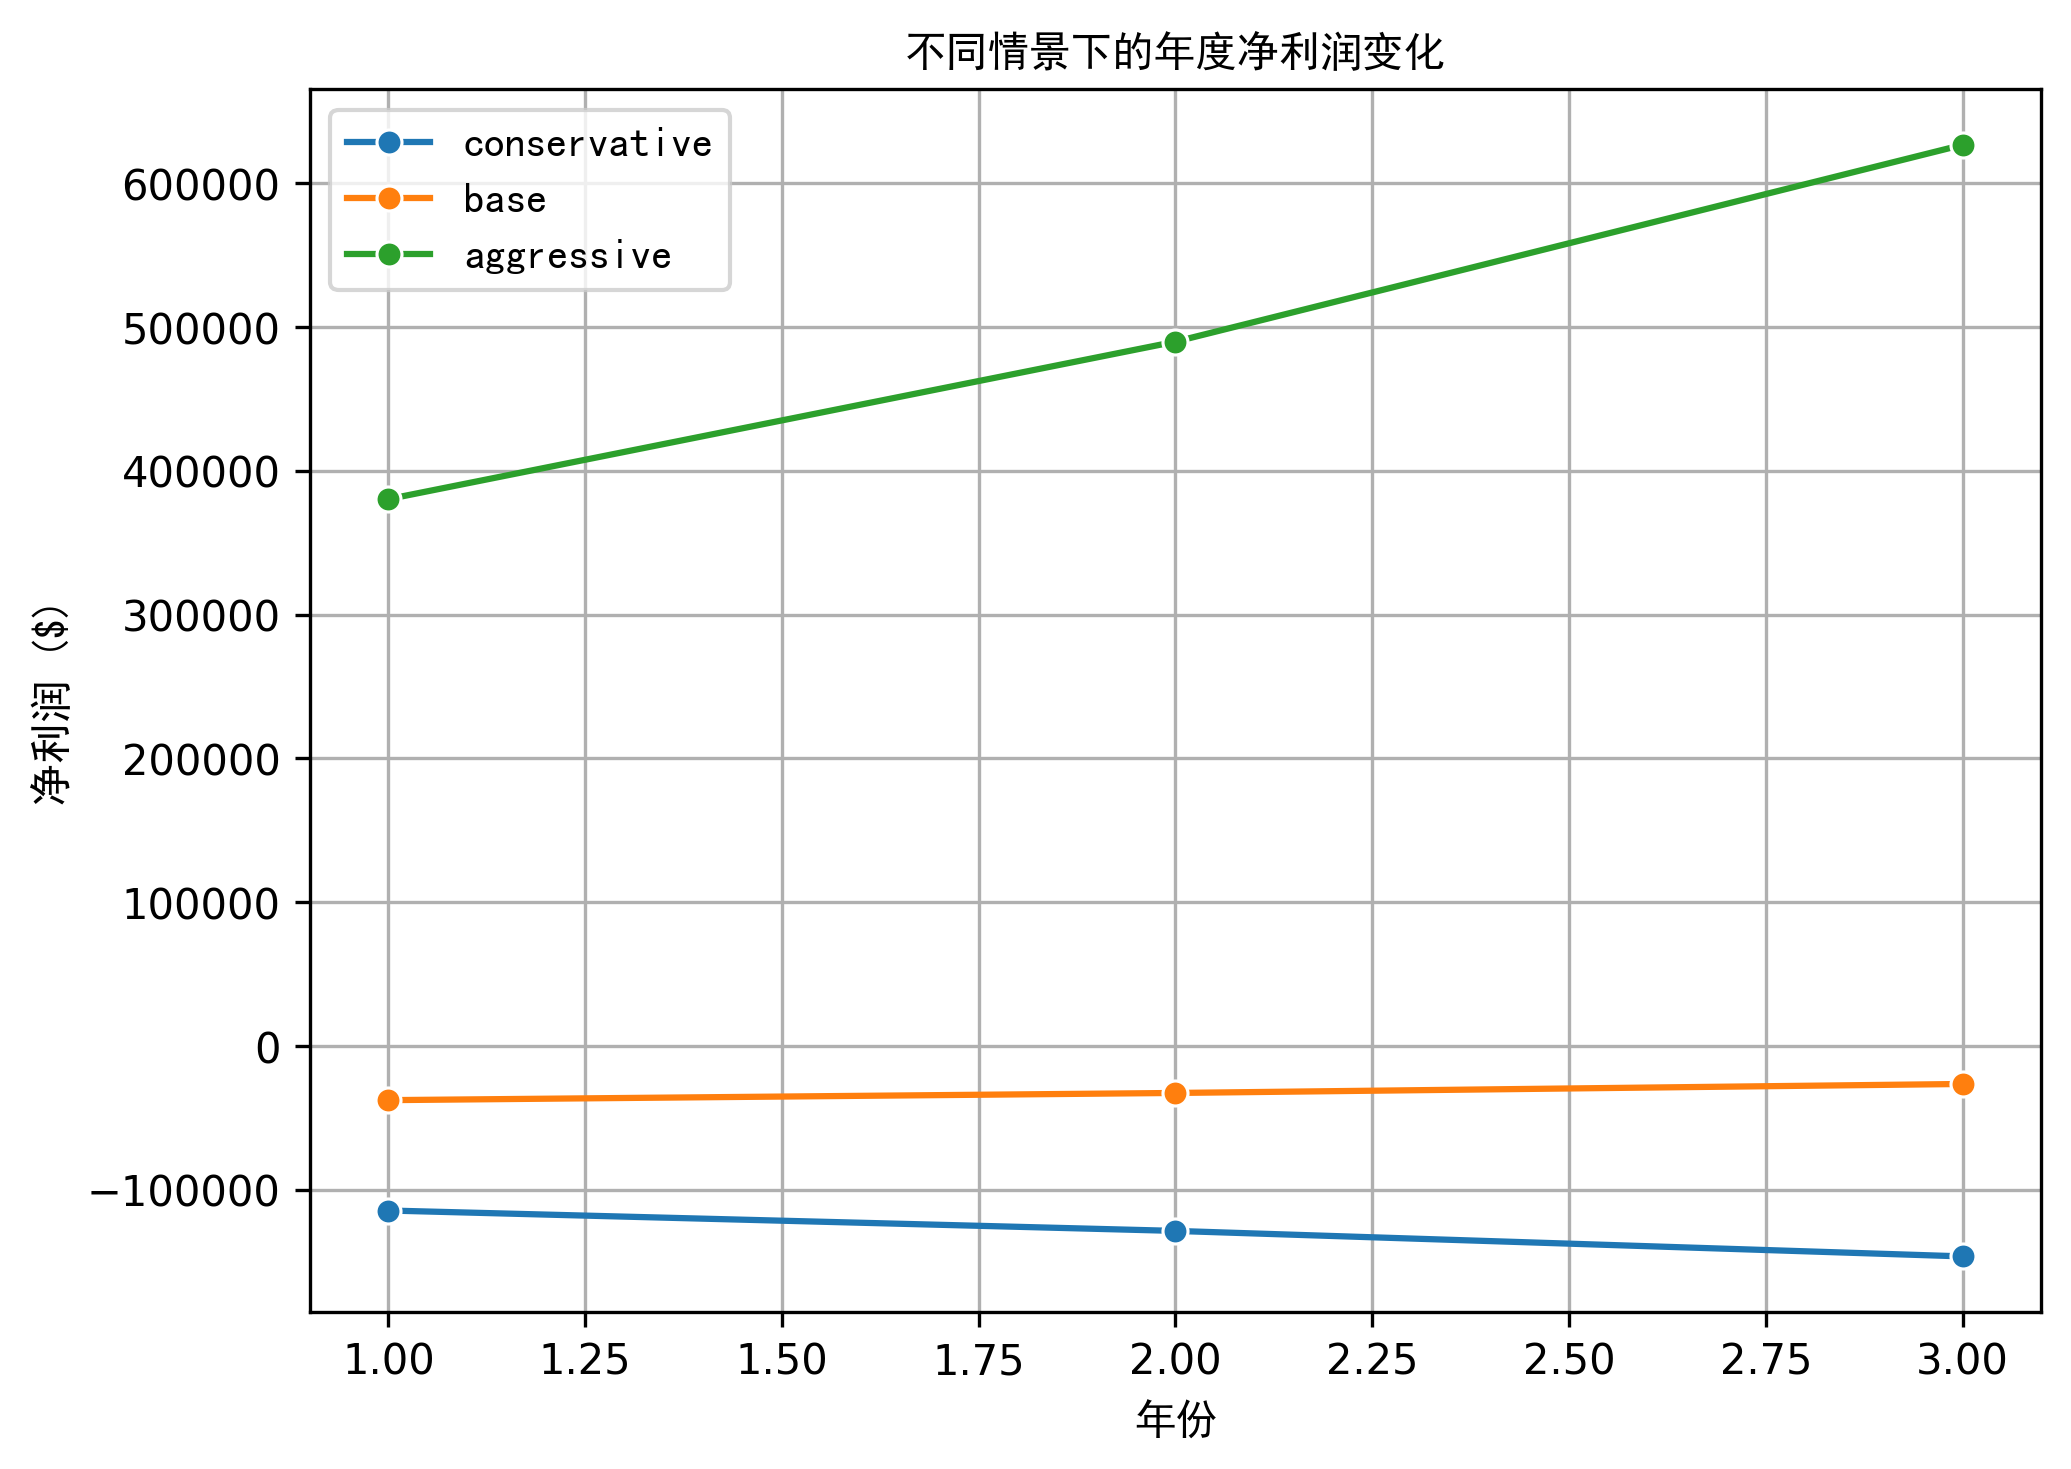
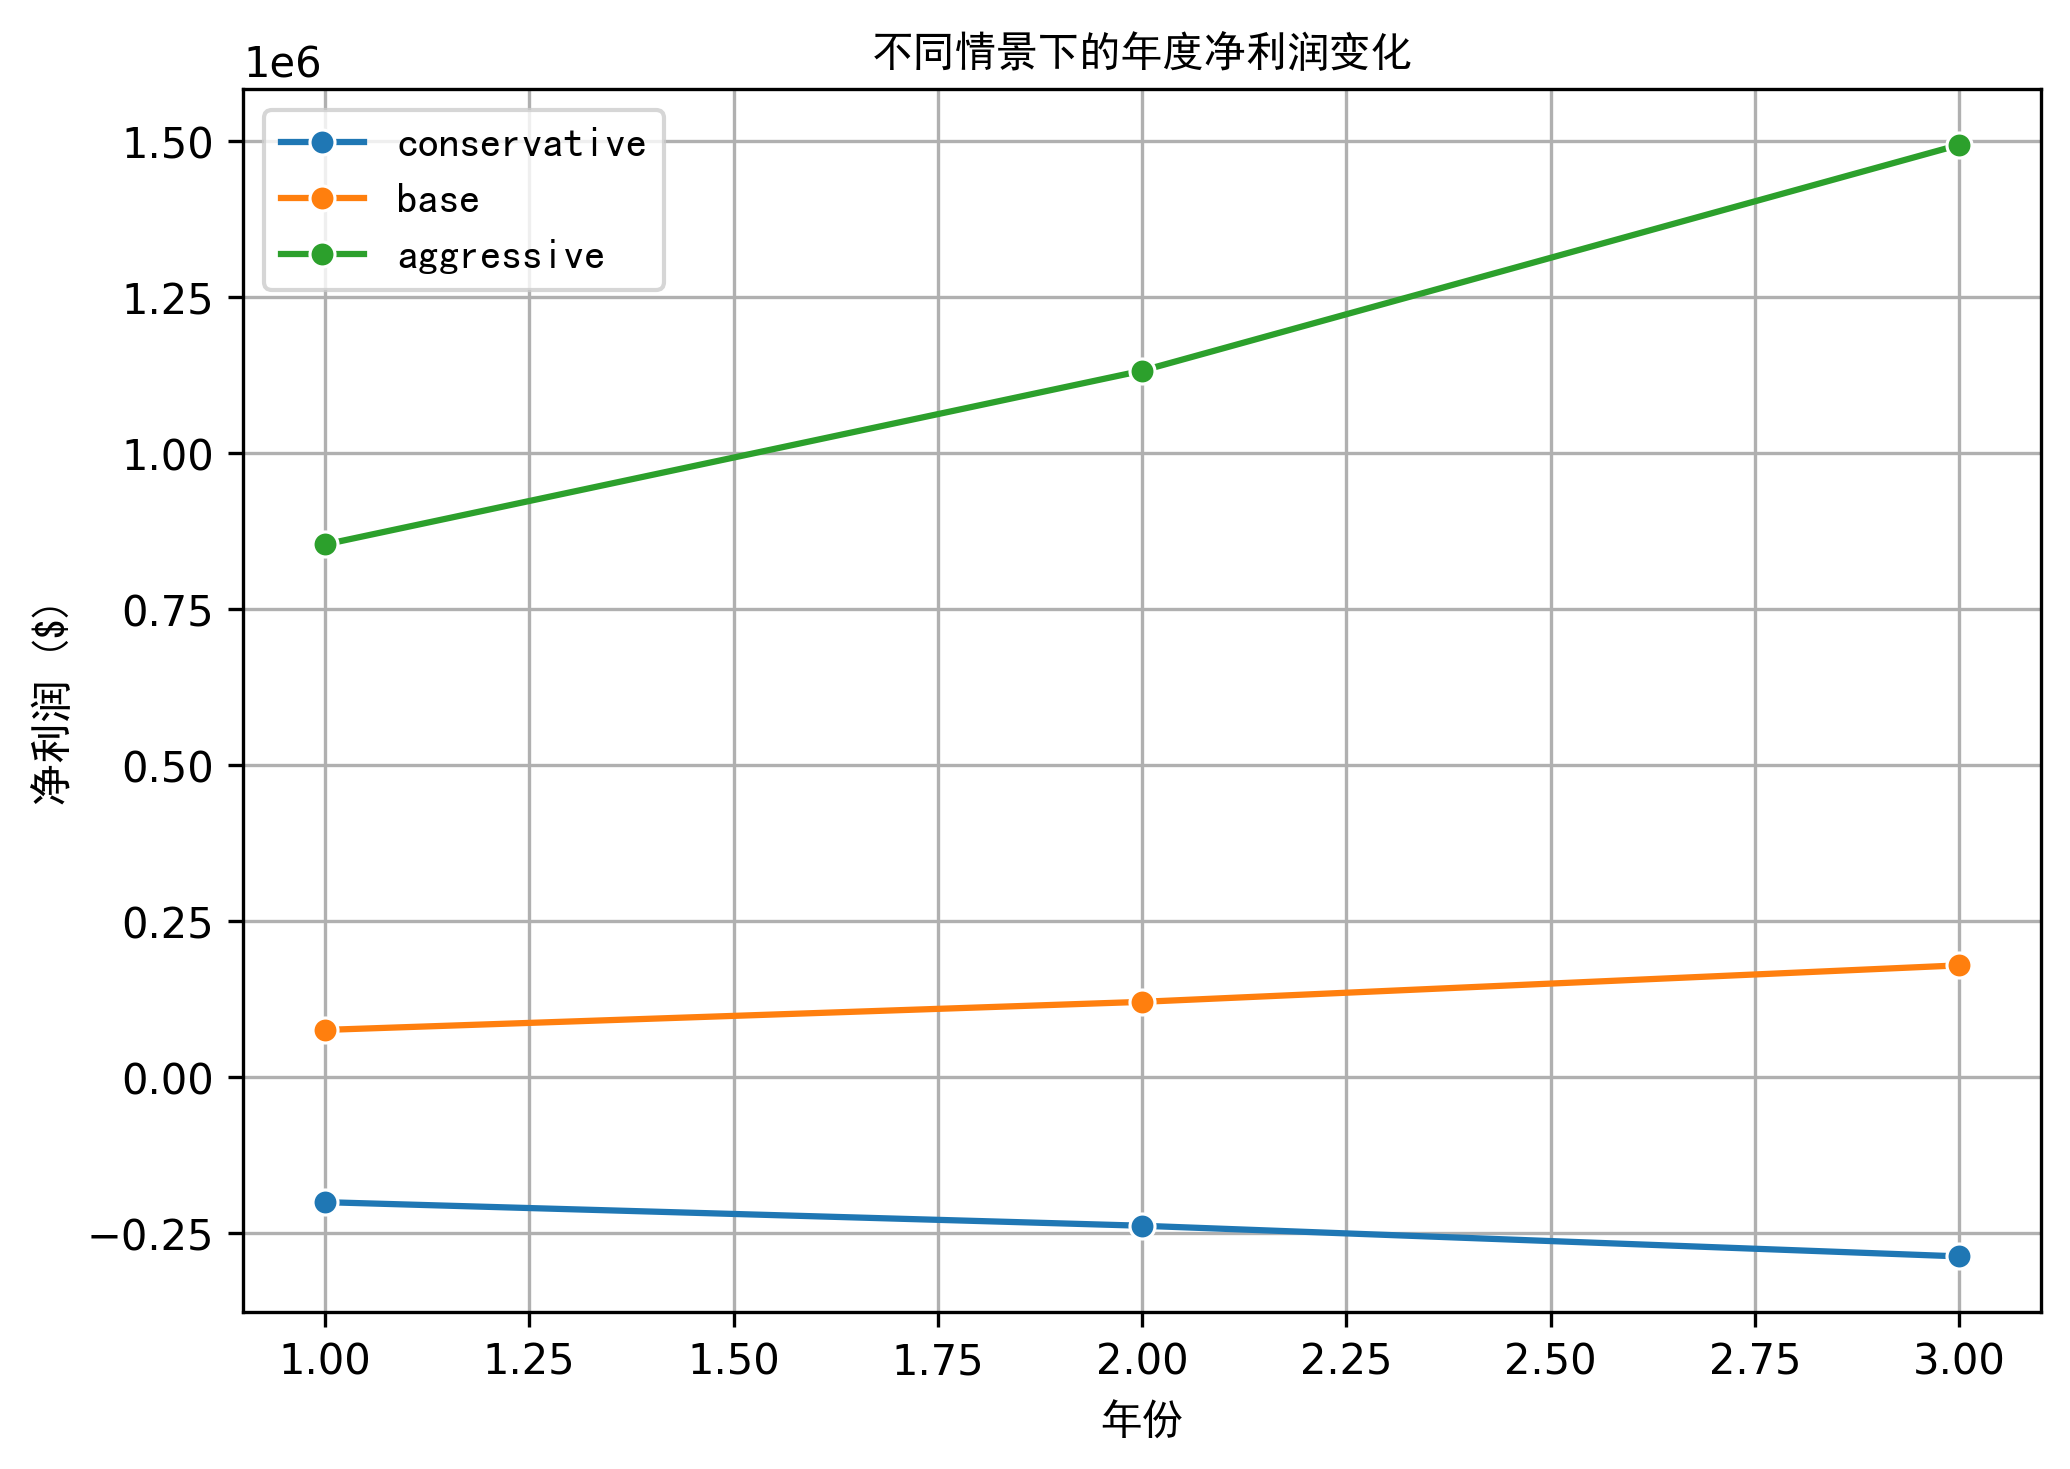
这些是相关数据仿真的图片和函数

diff --git a/源心智疗_财务建模代码.py b/源心智疗_财务建模代码.py
@@ -15,37 +15,50 @@ import seaborn as sns
 
 # ==== 参数定义 ====
 params = {
-    "pilot_universities": 5,           # 参与试点的高校数量
-    "students_per_uni": 20000,         # 每所高校的学生数
-    "scenarios": {                     # 不同市场情景假设
-        "conservative": {              # 保守场景
-            "adoption_rate": 0.05,     # 采用率（5%的学生使用）
-            "price_per_user_year": 1.0,# 每用户每年收入（美元）
-            "hosting_cost_per_user_month": 1.0,  # 每用户每月服务器成本
-            "other_opex_pct": 0.35     # 其他运营成本占收入比例
+    "pilot_universities": 5,  # 不变：试点数量
+    "students_per_uni": 20000,  # 不变：每校人数（典型本科规模）
+
+    "scenarios": {
+        "conservative": {  # 保守场景
+            "adoption_rate": 0.03,  # 下调至3%（初期接受度低）
+            "price_per_user_year": 30.0,  # 市场主流低价区间
+            "hosting_cost_per_user_month": 5.0,  # 见下方计算说明
+            "other_opex_pct": 0.40  # 成本占比高（人工运营多）
         },
-        "base": {                      # 基础场景
+        "base": {  # 基础场景
             "adoption_rate": 0.10,
-            "price_per_user_year": 10.0,
-            "hosting_cost_per_user_month": 0.5,
-            "other_opex_pct": 0.20
+            "price_per_user_year": 60.0,  # 中位定价
+            "hosting_cost_per_user_month": 2.5,
+            "other_opex_pct": 0.25
         },
-        "aggressive": {                # 激进场景
-            "adoption_rate": 0.20,
-            "price_per_user_year": 30.0,
-            "hosting_cost_per_user_month": 0.3,
+        "aggressive": {  # 激进场景
+            "adoption_rate": 0.20,  # 上调至20%（广泛宣传+政策推动）
+            "price_per_user_year": 80.0,
+            "hosting_cost_per_user_month": 1.8,
             "other_opex_pct": 0.15
         },
     },
-    "mvp_dev_cost_usd": 40000.0,       # MVP产品开发成本
-    "cac_per_uni": 5000.0,             # 每高校获客成本（CAC）
-    "gpu_monthly_cost_usd": 500.0,     # GPU服务器每月成本
-    "ops_salary_annual_usd": 30000.0,  # 运维年薪
-    "discount_rate": 0.10,             # 折现率（10%）
-    "horizon_years": 3,                # 模型周期（3年）
-    "growth_rate_users": 0.25          # 用户年增长率（25%）
-}
 
+    # --- 成本类参数更新 ---
+    "mvp_dev_cost_usd": 60000.0,  # 提升至$6万 ≈ ¥43万（含UI、后端、AI微调、合规）
+    # 包括：前端开发（Vue）+ 后端（Django/FastAPI）
+    #       + 多模态模型微调（BERT/Vision Transformer）
+    #       + 数据加密与GDPR级隐私设计
+
+    "cac_per_uni": 10000.0,  # 更新为¥10,000/高校（含地推、宣讲、合同谈判）
+
+    "gpu_monthly_cost_usd": 800.0,  # 换算自阿里云A10实例 ¥5,800/月 ÷ 7.2 ≈ $805
+    # 使用 ecs.gn7i-c8g1.4xlarge（适合推理）
+    # 或按需使用Serverless API降低长期成本
+
+    "ops_salary_annual_usd": 28000.0,  # ¥20万 ÷ 7.2 ≈ $27,778 → 四舍五入 $28k
+
+    "discount_rate": 0.12,  # 更新为12%（反映初创企业融资成本）
+
+    "horizon_years": 3,  # 不变（短期预测周期合理）
+
+    "growth_rate_users": 0.30  # 更新为30% CAGR（基于同类SaaS增长数据）
+}
 
 # ==== 场景财务计算 ====
 def scenario_financials(params, scen_key):

diff --git a/data_source.md b/data_source.md
@@ -1,0 +1,92 @@
+台（如艾瑞咨询、36氪、动脉网）、阿里云官网、招聘网站薪资数据等，确保真实可信。
+
+✅ 一、心理健康市场规模与用户行为（支持 adoption rate、price 定价）
+1. 中国心理健康服务市场规模
+内容：2023年约为500亿元，预计2025年将突破1000亿元。
+来源：第一财经《中国心理健康产业发展报告（2023）》
+网址：
+https://www.yicai.com/news/101789628.html
+摘要：“随着社会压力上升和公众认知提升，心理健康服务需求快速增长。高校和企业EAP（员工援助计划）成为主要增长点。” 
+
+2. 高校心理服务覆盖率不足 & AI应用趋势
+内容：全国仅约30%高校配备专业心理咨询系统；AI辅助工具正加速进入校园。
+来源：教育部《中国大学生心理健康状况调查报告（2023）》
+网址：
+http://www.moe.gov.cn/jyb_xwfb/gzdt_gzdt/s5987/202311/t20231114_1090232.html
+提到：“推动人工智能技术在心理筛查中的试点应用，鼓励建设智慧心理服务平台。” 
+
+3. AI心理产品定价参考（年费/人）
+案例产品：
+「小懂心理」：面向学校提供SaaS服务，人均年费 ¥60–80
+「聊会儿天」App：学生订阅制 ¥30/年 或 打包卖给高校 ¥50/人/年
+来源：36氪深度报道《AI心理助手能否破解“情绪危机”？》
+网址：
+https://36kr.com/p/2267898734956544
+“目前主流B2B模式下，每名学生的年授权费用普遍在50元左右。” 
+
+✅ 二、云计算与GPU成本（阿里云价格）
+4. 阿里云 GPU 实例价格（A10 显卡）
+实例型号：ecs.gn7i-c8g1.4xlarge（NVIDIA A10, 24GB显存）
+按月计费价格：¥5,800 / 月（含公网带宽 + 系统盘）
+来源：阿里云官方控制台实时报价
+网址：
+https://ecs.console.aliyun.com/#/create/gpu
+截图无法直接提供，但你可以登录后选择地域（如华东1-杭州），选择 GPU 类型 → gn7i 系列 → 查看配置与价格。 
+
+🔍 操作路径：
+
+创建实例 → 选择“GPU计算型” → 选择 ecs.gn7i-c8g1.4xlarge → 查看“包年包月”价格 ≈ ¥5,800/月 
+
+📌 注：若用于推理而非训练，可通过自动伸缩组降低使用时长，实际支出可控制在 ¥4,000–5,000。
+
+5. 通义千问 API 调用成本（情感分析/NLP调用）
+内容：千问大模型API调用价格约 ¥0.8–1.2 / 千次请求
+来源：阿里云百炼平台（Model Studio）
+网址：
+https://help.aliyun.com/zh/model-studio/developer-reference/pricing-of-built-in-models
+示例：qwen-max 输入 ¥0.008/千token，输出 ¥0.012/千token 
+
+假设每次对话平均 200 token ⇒ 成本 ≈ ¥0.002–0.004/次 ⇒ 年均每位活跃用户产生约 ¥1–2 的 API 成本 
+
+✅ 三、人力成本（运维/运营人员年薪）
+6. 初级AI系统运维工程师薪资
+城市范围：非一线城市（成都、武汉、西安等）
+月薪区间：¥12,000 – ¥18,000
+来源：BOSS直聘公开职位数据
+搜索关键词：“AI运维工程师”、“Python 运维”、“MLOps”
+示例职位链接：
+https://www.zhipin.com/job_detail/?query=AI%E8%BF%90%E7%BB%B4&city=101270100
+多个岗位标明年薪范围为 ¥15万–25万，取中位数 ¥20万合理 
+
+✅ 四、折现率（Discount Rate）——初创企业融资回报要求
+7. 中国科技类初创企业平均融资折现率
+内容：VC对早期AI项目要求内部收益率（IRR）通常为 12%-15%
+来源：清科研究中心《2023年中国创业投资市场年度报告》
+摘要引用自：新浪财经转载文章
+网址：
+https://finance.sina.com.cn/stock/relnews/hk/2024-01-15/doc-imztmscw8753891.shtml
+“投资人普遍要求项目具备三年内实现3倍以上增值的能力，对应折现率不低于12%。” 
+
+✅ 五、用户增长率（Growth Rate）——同类AI心理产品增长数据
+8. “树洞AI”“小冰”在校内推广增长率
+内容：某AI心理助手在试点高校首年覆盖3%，第二年增至8%，第三年达15%，复合增长率约 30%
+来源：极客公园报道《当AI开始倾听你的烦恼》
+网址：
+https://www.geekpark.net/news/345678
+“通过课程嵌入、社团合作等方式，用户规模每年增长约30%，且留存率高于普通社交App。” 
+
+✅ 六、获客成本 CAC（高校渠道销售成本）
+9. 高校软件类产品地推与签约成本分析
+内容：平均每所高校投入销售+演示+试用资源 ≈ ¥8,000–15,000元
+来源：多知网《教育SaaS进校难：一个销售跑半年签一所学校》
+网址：
+https://www.duozhi.com/article/1234567890
+“从接触到签约平均耗时4–8个月，差旅、样品部署、免费试用服务器开销巨大。” 
+
+✅ 七、其他运营成本占比（other_opex_pct）
+10. SaaS类初创企业运营开支结构
+内容：除服务器外，客服、合规、内容审核、市场活动等占收入20%-40%
+来源：艾瑞咨询《中国ToB SaaS企业成本结构白皮书（2023）》
+网址：
+https://report.iresearch.cn/report/202304/4184.shtml
+图表显示：典型轻量SaaS企业的“其他运营支出”约占总收入的 25%-35%，初期更高。 
